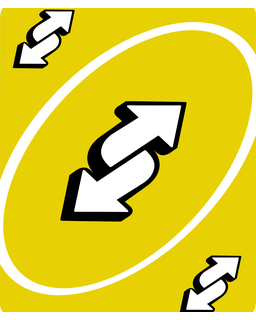
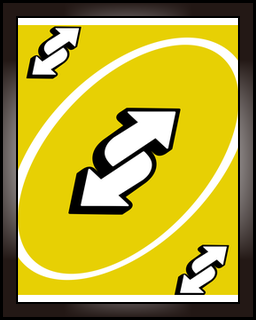
art(card-expand): 全部卡图套零售同款边框（cardframe.py 程序合成：外 3 黑 / 13 斜面带边中高光 / 内 2 黑，画面 220×284 等比覆盖；fit_card 默认套，PNG 记 renkolab-frame）+ 神之宣告演出初始铺满宽度（scale 1.5→1.7）；abcard.anm / ability.anm 重建
Claude-Session: https://claude.ai/code/session_01ComgjvUHb7YY3pSUiga1gt

diff --git a/mods/th18.v1.00a/card-expand/assets/cardframe.py b/mods/th18.v1.00a/card-expand/assets/cardframe.py
@@ -1,0 +1,111 @@
+#!/usr/bin/env python3
+"""给 256×320 的卡图加零售同款边框（程序合成，不含零售像素）。
+
+    python3 cardframe.py                 # 给 cards/*_max.png 全部补框（已补过的跳过），并重出 _min
+    python3 cardframe.py NAME [NAME…]    # 只处理这几张
+
+零售 abcard 的框（117 张逐像素一致，量自 KANAME_max / ALICE_OP_max）：
+  外圈 3 px 纯黑 → 13 px 深色斜面 → 2 px 纯黑 → 画面区 220×284（每边内缩 18 px）。
+  斜面底色 (35,24,21)；每条边中点有一道高光，沿边按 1 − (偏移/半长)² 衰减（左右半长 100，上下 64），
+  越靠内越亮（左右：外 101 → 内 133；上下：外 43 → 内 80），四角斜接。
+画面区比例 220:284 与 256:320 不同，用「等比覆盖 + 居中裁切」（宽裁 ~1.4%），不拉伸。
+已补框的 PNG 写一个 tEXt `renkolab-frame=1`，重复跑不会套两层。
+"""
+import sys
+from pathlib import Path
+
+from PIL import Image, PngImagePlugin
+
+HERE = Path(__file__).resolve().parent
+CARDS = HERE / "cards"
+W, H = 256, 320
+MIN_W, MIN_H = 64, 80
+OUTER, BEVEL, INNER = 3, 13, 2
+INSET = OUTER + BEVEL + INNER          # 18
+BASE = (35, 24, 21)
+SIDE_PEAK, SIDE_W0, SIDE_HALF = (133, 127, 126), 0.67, 100.0
+TB_PEAK, TB_W0, TB_HALF = (80, 71, 70), 0.18, 64.0
+TAG = "renkolab-frame"
+
+
+def _bevel_color(x, y):
+    """(x, y) 落在斜面环里时的颜色：按离哪条外边最近决定属于哪条边（斜接）。"""
+    dl, dr, dt, db = x, W - 1 - x, y, H - 1 - y
+    d = min(dl, dr, dt, db)
+    depth = (d - OUTER) / (BEVEL - 1)                      # 0 外 → 1 内
+    if d == dl or d == dr:
+        off = abs(y - (H - 1) / 2); peak, w0, half = SIDE_PEAK, SIDE_W0, SIDE_HALF
+    else:
+        off = abs(x - (W - 1) / 2); peak, w0, half = TB_PEAK, TB_W0, TB_HALF
+    f = max(0.0, 1.0 - (off / half) ** 2)
+    w = w0 + (1.0 - w0) * depth
+    return tuple(int(round(b + f * w * (p - b))) for b, p in zip(BASE, peak))
+
+
+_FRAME = None
+
+
+def frame_image():
+    """256×320 RGBA：框不透明，画面区透明。只算一次。"""
+    global _FRAME
+    if _FRAME is None:
+        im = Image.new("RGBA", (W, H), (0, 0, 0, 0))
+        px = im.load()
+        for y in range(H):
+            for x in range(W):
+                d = min(x, W - 1 - x, y, H - 1 - y)
+                if d < OUTER or INSET - INNER <= d < INSET:
+                    px[x, y] = (0, 0, 0, 255)
+                elif d < INSET:
+                    px[x, y] = _bevel_color(x, y) + (255,)
+        _FRAME = im
+    return _FRAME
+
+
+def is_framed(path: Path) -> bool:
+    try:
+        return Image.open(path).info.get(TAG) == "1"
+    except Exception:
+        return False
+
+
+def apply_frame(art: Image.Image) -> Image.Image:
+    """art：256×320（或任意尺寸）RGBA 满版卡图 → 加框后的 256×320。"""
+    iw, ih = W - 2 * INSET, H - 2 * INSET                  # 220×284
+    s = max(iw / art.width, ih / art.height)                # 等比覆盖
+    art = art.convert("RGBA").resize((max(iw, round(art.width * s)), max(ih, round(art.height * s))), Image.LANCZOS)
+    ox, oy = (art.width - iw) // 2, (art.height - ih) // 2
+    art = art.crop((ox, oy, ox + iw, oy + ih))
+    out = Image.new("RGBA", (W, H), (0, 0, 0, 255))
+    out.paste(art, (INSET, INSET))
+    out.alpha_composite(frame_image())
+    return out
+
+
+def save_framed(im: Image.Image, path: Path):
+    meta = PngImagePlugin.PngInfo()
+    meta.add_text(TAG, "1")
+    im.save(path, pnginfo=meta)
+
+
+def reframe(name: str) -> bool:
+    big = CARDS / f"{name}_max.png"
+    if is_framed(big):
+        print(f"{name}: already framed, skip")
+        return False
+    out = apply_frame(Image.open(big))
+    save_framed(out, big)
+    out.resize((MIN_W, MIN_H), Image.LANCZOS).save(CARDS / f"{name}_min.png")
+    print(f"{name}: framed (art 220x284 inside 256x320), _min regenerated")
+    return True
+
+
+def main(argv):
+    names = argv or sorted(p.name[:-8] for p in CARDS.glob("*_max.png"))
+    n = sum(reframe(n) for n in names)
+    print(f"{n} card(s) framed")
+    return 0
+
+
+if __name__ == "__main__":
+    sys.exit(main(sys.argv[1:]))

diff --git a/mods/th18.v1.00a/card-expand/assets/fit_card.py b/mods/th18.v1.00a/card-expand/assets/fit_card.py
@@ -5,6 +5,7 @@
     python3 fit_card.py NAME src.png --trim 0 --bg '#000000'     # 等比缩放居中、不修边、黑底
     python3 fit_card.py NAME src.png --no-detect                 # 不做去白边，整图直接放
 
+⑥ 默认再套零售同款边框（cardframe.py，--no-frame 关）。
 步骤：① 去白边（非白像素的包围盒）② 上下各修 --trim 比例 ③ 缩到高 320 − 2·margin：默认等比、居中；
 --fill 时宽直接拉到 256（不保比例，两侧不留底色）④ 贴到 --bg 底色的 256×320 上 ⑤ _min = 整图缩到 64×80。
 """
@@ -13,6 +14,8 @@ import sys
 from pathlib import Path
 
 from PIL import Image
+
+import cardframe
 
 HERE = Path(__file__).resolve().parent
 OUT = HERE / "cards"
@@ -56,12 +59,17 @@ def main():
     ap.add_argument("--margin", type=int, default=8, help="上下留白像素（默认 8）")
     ap.add_argument("--no-detect", action="store_true", help="不做去白边")
     ap.add_argument("--fill", action="store_true", help="横向拉伸到满宽 256（不保比例；上下仍留 margin）")
+    ap.add_argument("--no-frame", action="store_true", help="不加零售同款边框（默认加，cardframe.py）")
     ap.add_argument("--out", default=str(OUT))
     a = ap.parse_args()
     out = Path(a.out)
     out.mkdir(parents=True, exist_ok=True)
     big = fit(a.src, a.trim, a.bg, not a.no_detect, a.margin, a.fill)
-    big.save(out / f"{a.name}_max.png")
+    if a.no_frame:
+        big.save(out / f"{a.name}_max.png")
+    else:
+        big = cardframe.apply_frame(big)                      # 零售同款边框（画面等比覆盖 220×284）
+        cardframe.save_framed(big, out / f"{a.name}_max.png")
     big.resize((MIN_W, MIN_H), Image.LANCZOS).save(out / f"{a.name}_min.png")
     print(f"{a.name}: {a.name}_max.png {MAX_W}x{MAX_H} · {a.name}_min.png {MIN_W}x{MIN_H}  ← {a.src.name}"
           f"{'  [fill]' if a.fill else ''}")

diff --git a/mods/th18.v1.00a/card-expand/assets/README.md b/mods/th18.v1.00a/card-expand/assets/README.md
@@ -21,6 +21,11 @@
 
 第三方 / 原始素材放 `cards/_src/`（原件 + 出处 README）。
 
+**边框**：零售 117 张卡共用同一个框（外 3 px 黑 → 13 px 深色斜面、边中高光 → 内 2 px 黑，画面区 220×284）。
+`cardframe.py` 按量出来的参数程序合成它（仓库里不放零售像素），`fit_card.py` 默认套上（`--no-frame` 关）；
+`python3 cardframe.py` 给 `cards/*_max.png` 补框并重出 `_min`（PNG 里记 `renkolab-frame=1`，重复跑不会套两层）。
+画面按等比覆盖 220×284 居中裁（宽裁 ~1.4%），不拉伸。`ability.anm` 里的卡图副本引用同一批 PNG，一起带框。
+
 ## 索引怎么来
 
 零售 `abcard.anm` 有 118 个 entry（0..117），**一个 entry 一个 sprite，sprite 号 = entry 号**，
